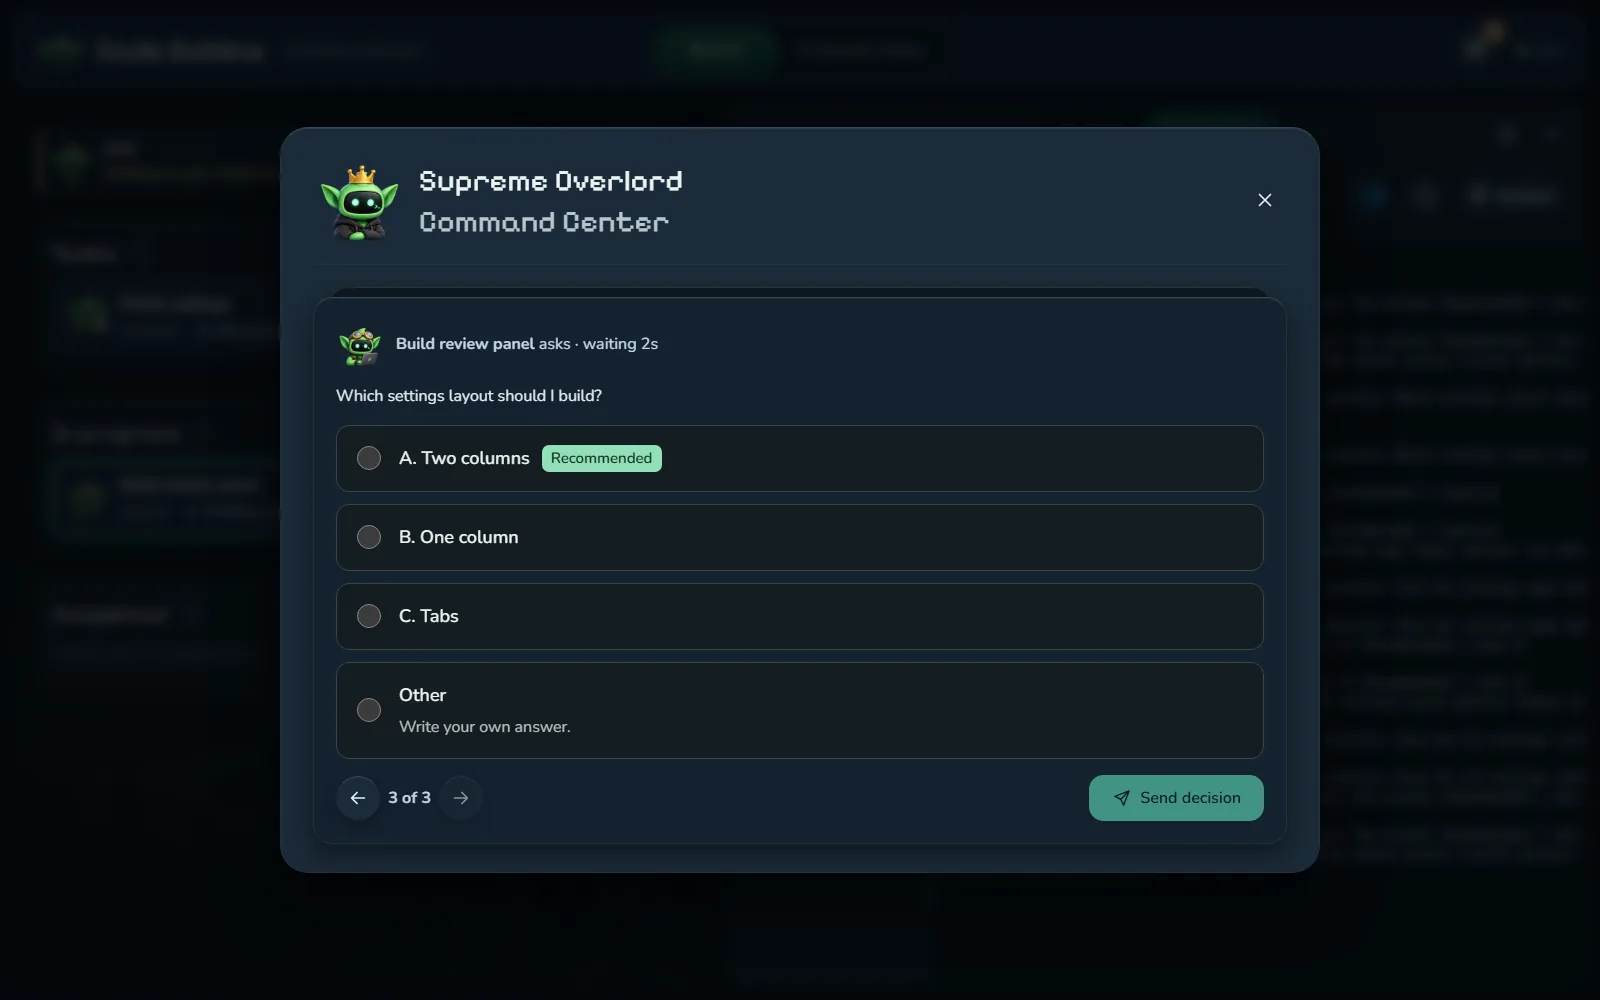
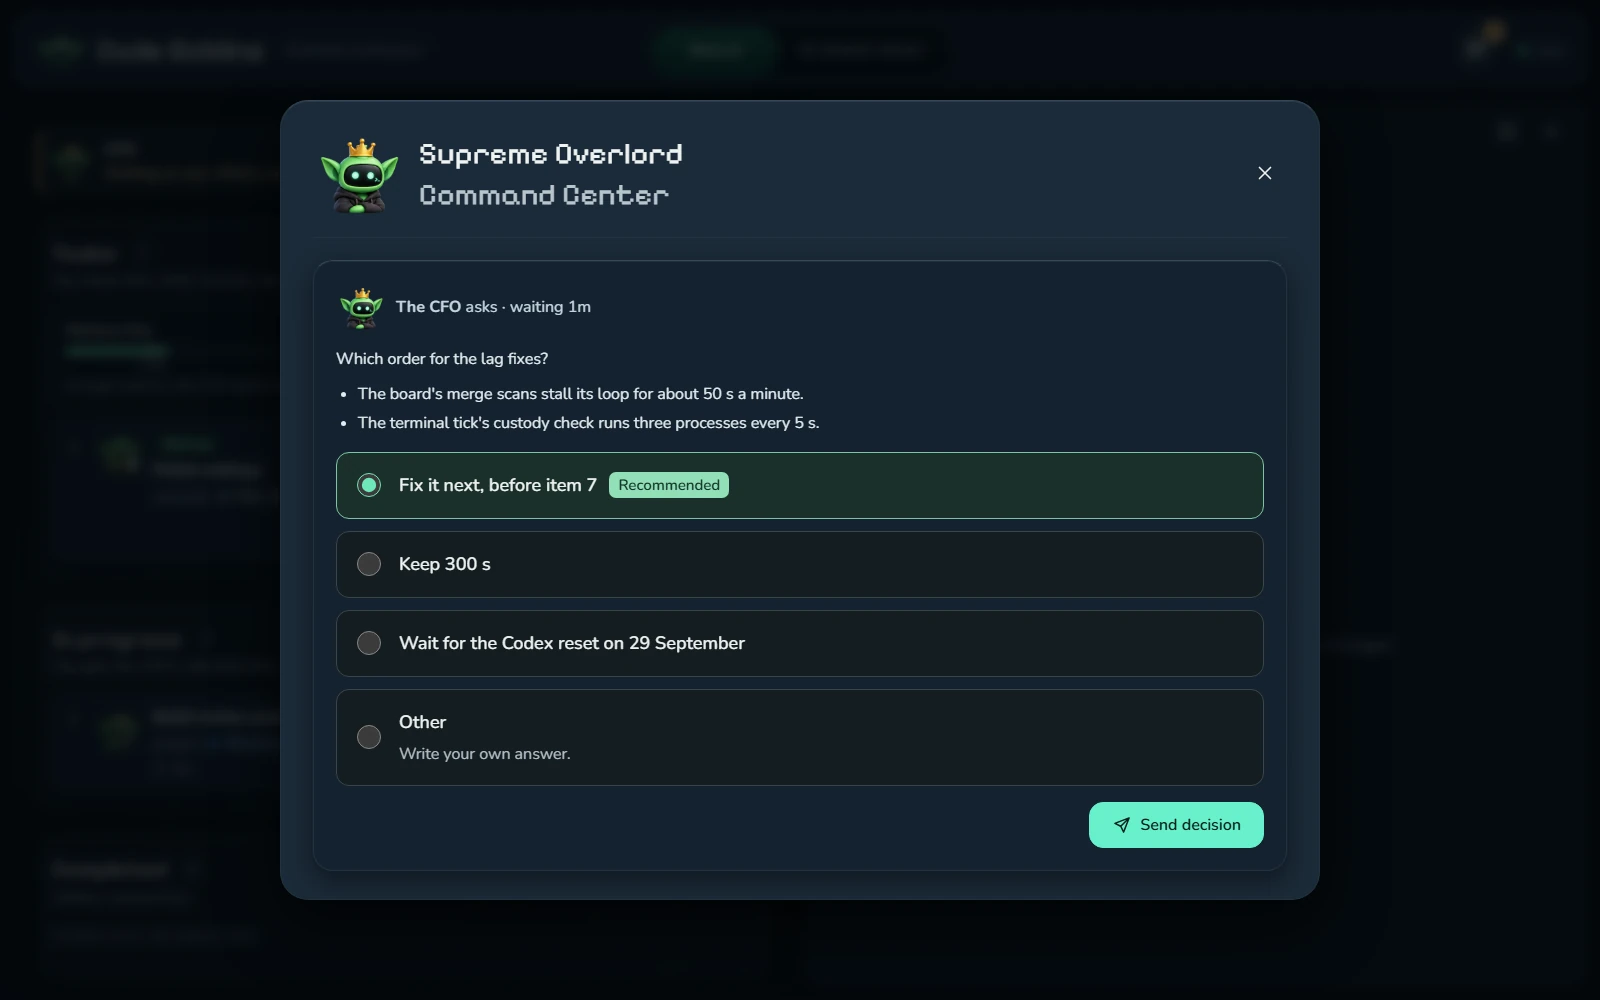
no-mistakes(document): replace lettered command center screenshot with answer list

diff --git a/README.md b/README.md
@@ -265,7 +265,7 @@ Retrying an unchanged comment keeps its request ID, so a retry cannot deliver th
 ### Supreme Overlord Command Center
 
 <p align="center">
-  <img src="docs/images/command-center.webp" alt="Supreme Overlord Command Center: card 3 of 3, a goblin's question with A, B and C choices, the recommended option marked, and Other; Back, 3 of 3 and Next sit on the left of the card's action row and Send decision on the right" width="560" />
+  <img src="docs/images/command-center.webp" alt="Supreme Overlord Command Center: the CFO asks which order for the lag fixes, with its details as two bullets, then three answers as a plain radio list (Fix it next, before item 7, marked Recommended and selected; Keep 300 s; Wait for the Codex reset on 29 September) and Other, with Send decision below" width="560" />
 </p>
 
 When the CFO needs a decision only you can make, it publishes the question with `cfo question` and the Command Center opens as a modal.
